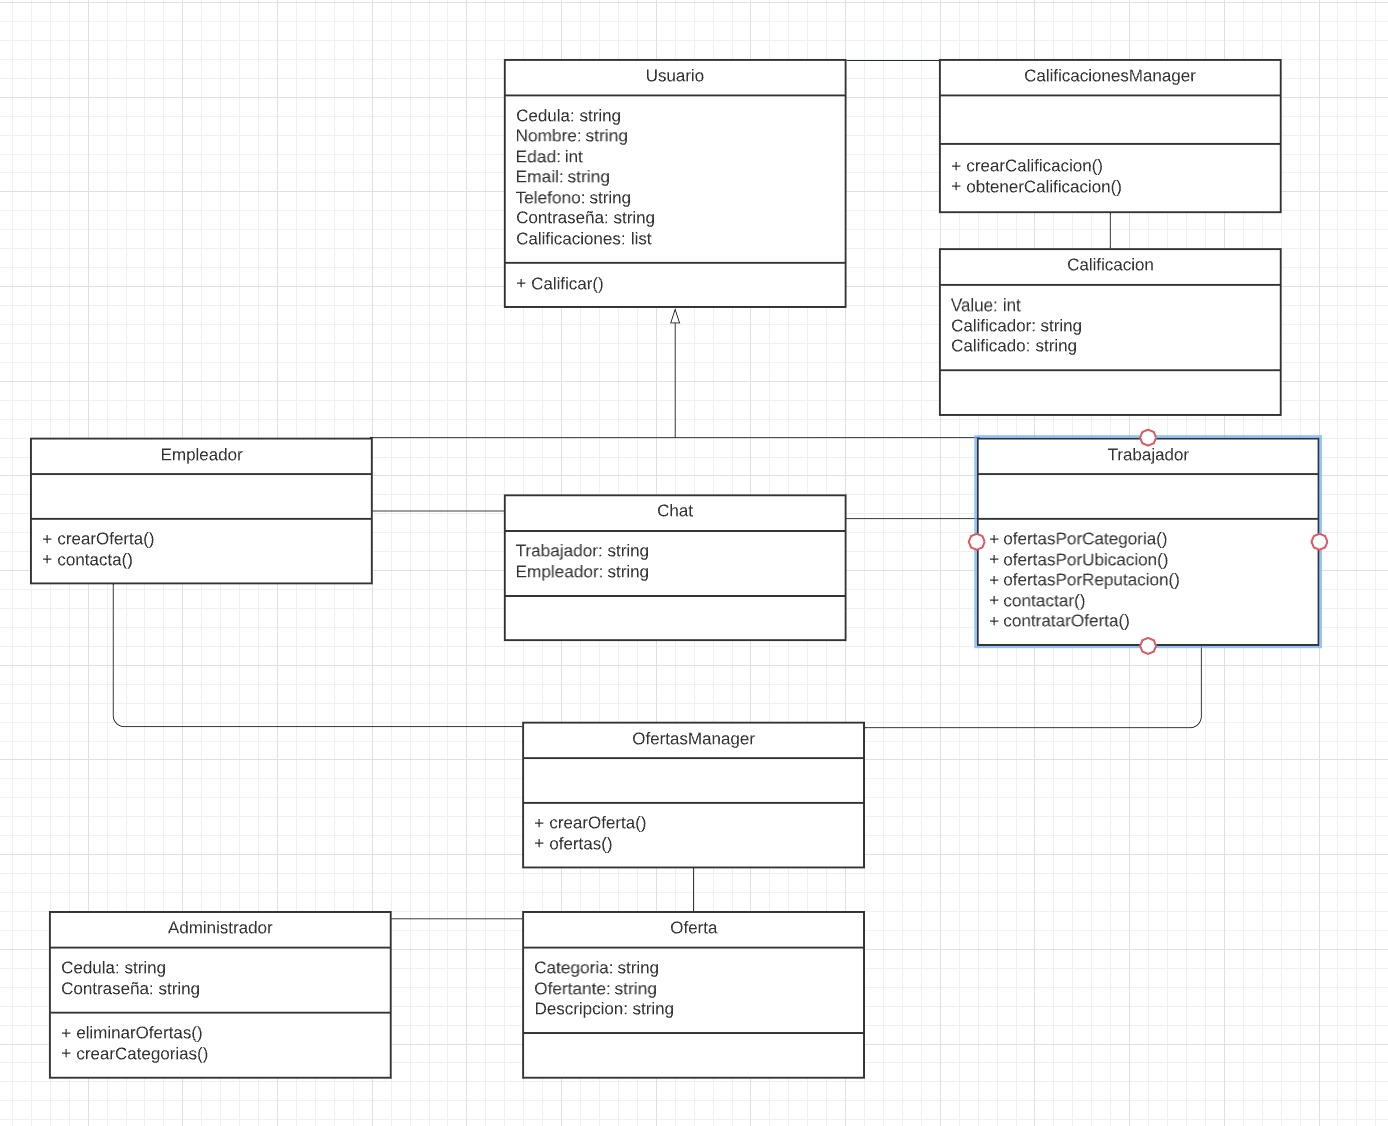
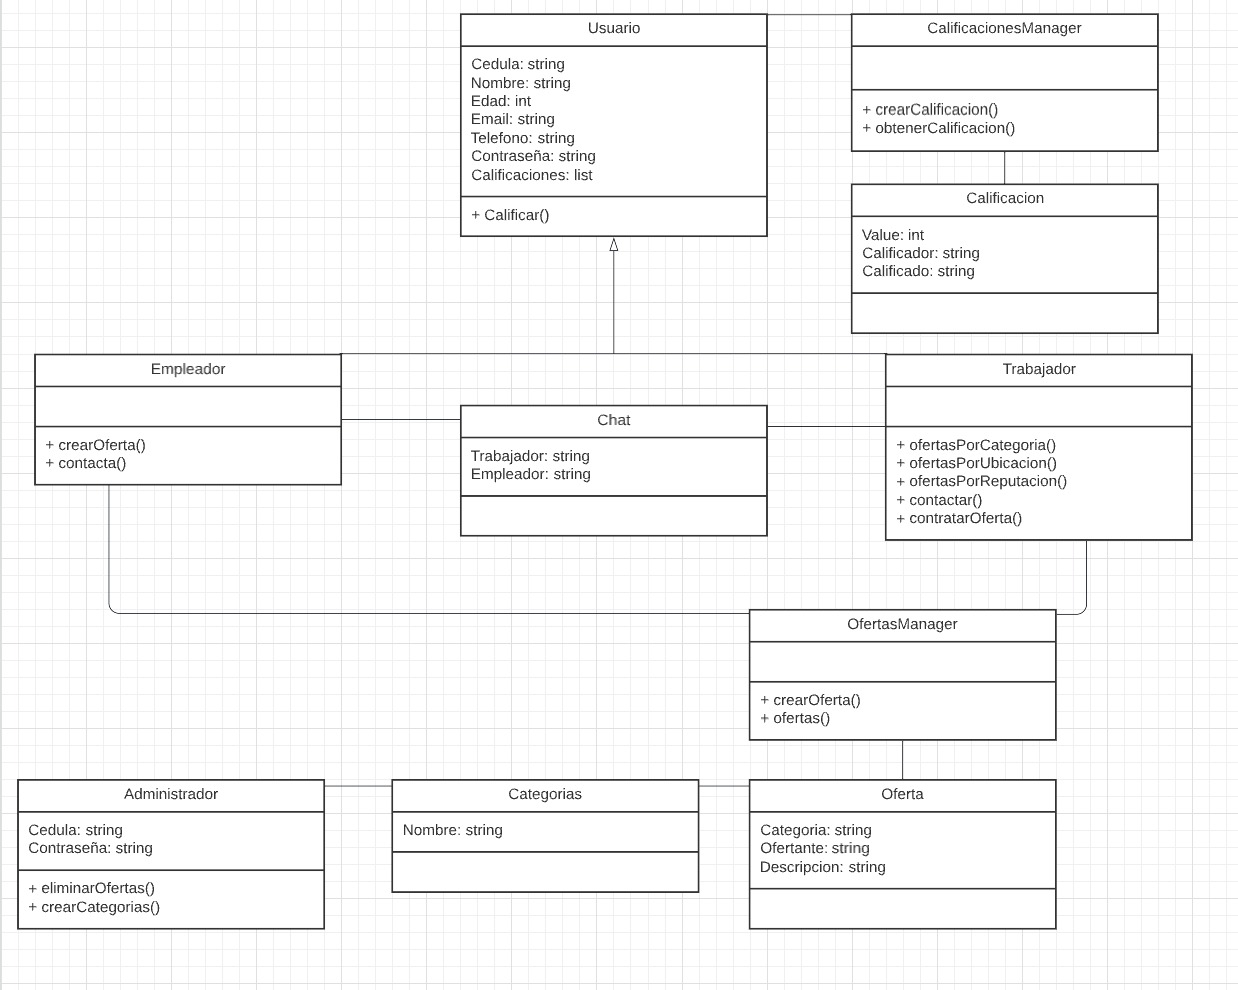
Creacion de la clase OfertasManager, Eliminacion de Ofertas y UML.jpeg

diff --git a/src/ClassLibrary/Usuario.cs b/src/ClassLibrary/Usuario.cs
@@ -4,7 +4,7 @@ public class Usuario
     public string Email {get; set;}
     public int Edad {get; set;}
     public string Telefono {get; set;}
-    public string Contraseña;
+    private string Contraseña;
     public string Cedula{get;}
     public List Calificaciones {get; set;}
     public Usuario(string nombre, string email,int edad,string telefono,string contraseña,string cedula)

diff --git a/src/ClassLibrary/Calificacion.cs b/src/ClassLibrary/Calificacion.cs
@@ -1,0 +1,13 @@
+using System;
+namespace ClassLibrary;
+using System.Collections.Generic;
+
+public class Calificacion   
+{
+    public Calificacion(int value, string calificador, string calificado)
+    {
+        this.value = value;
+        this.calificador = calificador;
+        this.calificado = calificado;
+    }
+}

diff --git a/src/ClassLibrary/Oferta.cs b/src/ClassLibrary/Oferta.cs
@@ -10,8 +10,9 @@ public class Oferta
         this.coordenadas = coordenadas;
         this.nombre=nombre;
     }
-    public bool verificarCategoria(){
+    public bool verificarCategoria()
+    {
+        
         return;
-
     }
 }

diff --git a/src/ClassLibrary/CalificacionesManager.cs b/src/ClassLibrary/CalificacionesManager.cs
@@ -1,0 +1,15 @@
+public class CalificacionesManager
+{
+    public CalificacionesManager()
+    {
+
+    }
+    public void crearCalificacion()
+    {
+
+    }
+    public void obtenerCalificacion()
+    {
+
+    }
+}

diff --git a/src/ClassLibrary/OfertasManager.cs b/src/ClassLibrary/OfertasManager.cs
@@ -1,0 +1,15 @@
+public class OfertasManager
+{
+    public OfertasManager()
+    {
+
+    }
+    public void crearOferta()
+    {
+
+    }
+    public void ofertas()
+    {
+
+    }
+}
